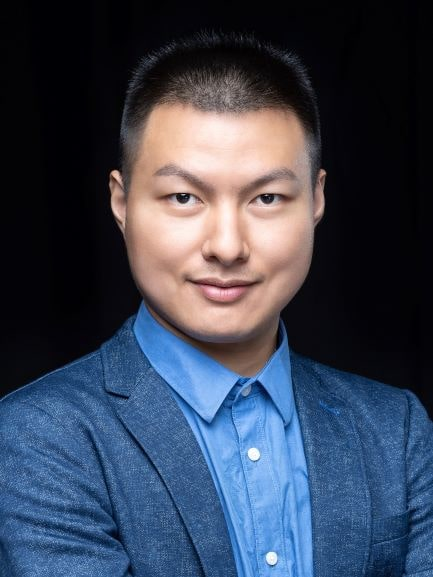
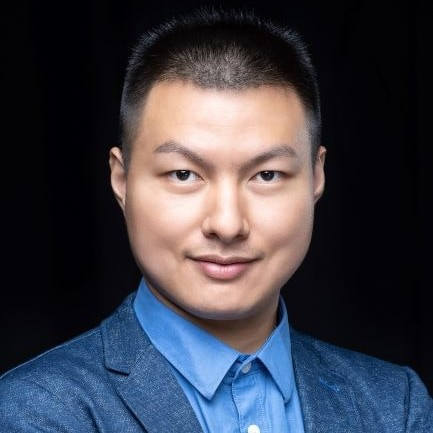
FIX: Fixed photo aspect ratio - updated organizer - updated call for papers page - updated program data file

diff --git a/_layouts/teams.html b/_layouts/teams.html
@@ -20,14 +20,18 @@ bodyClass: "page-teams"
 
 <div class="container pt-6 pb-6">
     <h1 class="title">Chairs</h1>
-    <div class="row">
+<!--    <div class="row">-->
+    <div class="row pt-6 pb-6">
         {% assign promoted_teams = site.organizers | where: "chair", true | sort: "weight" %}
         {% for team in promoted_teams %}
-        <div class="col-12 col-md-6 mb-2">
-            <div class="team team-summary team-summary-large">
+<!--        <div class="col-12 col-md-6 mb-2">-->
+        <div class="col-12 col-md-4 mb-3">
+            <div class="team team-summary">
+<!--            <div class="team team-summary team-summary-large">-->
                 {% if team.image %}
                 <div class="team-image">
-                    <img width="90" height="90" alt="{{ team.title }}" class="img-fluid mb-2" src="{{ team.image | relative_url }}" />
+                    <img width="60" height="60" alt="{{ team.title }}" class="img-fluid mb-2" src="{{ team.image | relative_url }}" />
+<!--                <img width="90" height="90" alt="{{ team.title }}" class="img-fluid mb-2" src="{{ team.image | relative_url }}" />-->
                 </div>
                 {% endif %}
                 <div class="team-meta">
@@ -62,14 +66,14 @@ bodyClass: "page-teams"
 <!--        {% endfor %}-->
 <!--    </div>-->
     <h1 class="title">Organising Team</h1>
-    <div class="row">
+    <div class="row pt-6 pb-6">
         {% assign promoted_teams = site.organizers | where: "chair", false | sort: "weight" %}
         {% for team in promoted_teams %}
-        <div class="col-12 col-md-6 mb-2">
-            <div class="team team-summary team-summary-large">
+        <div class="col-12 col-md-4 mb-3">
+            <div class="team team-summary">
                 {% if team.image %}
                 <div class="team-image">
-                    <img width="90" height="90" alt="{{ team.title }}" class="img-fluid mb-2" src="{{ team.image | relative_url }}" />
+                    <img width="60" height="60" alt="{{ team.title }}" class="img-fluid mb-2" src="{{ team.image | relative_url }}" />
                 </div>
                 {% endif %}
                 <div class="team-meta">

diff --git a/_layouts/page.html b/_layouts/page.html
@@ -3,15 +3,18 @@ layout: default
 bodyClass: "page-basic"
 ---
 
-<div class="container pb-1 pt-6 pt-md-10 pb-md-10">
+<div class="intro2">
+<div class="container pb-1 pt-2 pt-md-2 pb-md-2">
     <div class="service service-single">
         <h1 class="title">{{page.title}}</h1>
         <div class="content">{{content}}</div>
     </div>
 </div>
+</div>
 
-<div class="container pb-1 pt-1 pt-md-2 pb-md-6 strip strip-grey">
-    <div class="content mt-4">
+<div class="intro2">
+<div class="container pb-1 pt-1 pt-md-1 pb-md-1 strip strip-grey">
+    <div class="content mt-1">
       <table>
       <thead>
         <tr>
@@ -31,4 +34,5 @@ bodyClass: "page-basic"
       </tbody>
     </table>
     </div>
+</div>
 </div>

diff --git a/_layouts/home.html b/_layouts/home.html
@@ -78,7 +78,7 @@ bodyClass: "page-home"
 <!--</div>-->
 <!--{% endif %}-->
 
-<div class="container pb-3 pt-3 pt-md-6 pb-md-6 strip strip-grey">
+<div class="container pb-1 pt-1 pt-md-1 pb-md-1 strip strip-grey">
 <!--    <div class="row justify-content-start">-->
 <!--        <div class="col-12 col-md-8">-->
 <!--            <div class="service service-single">-->

diff --git a/_sass/components/_intro.scss b/_sass/components/_intro.scss
@@ -83,12 +83,12 @@
     @include media-breakpoint-up(md) {
       width: 100%;
     }
-ul ol{
-  font-size: 1.2rem;
-  font-weight: light;
-  line-height: 1.5;
-  color: $black;
-  }
+  ul ol li {
+    font-size: 1.2rem;
+    font-weight: light;
+    line-height: 1.5;
+    color: $black;
+    }
   //ul li {
   //  list-style-type: none;
   //}

diff --git a/call-for-papers.md b/call-for-papers.md
@@ -1,49 +1,77 @@
 ---
-title: Call for papers
-layout: services
-description: Call for papers
+title: Call for papers 
+layout: services 
+description: Call for papers 
 intro_image: "images/illustrations/reading.svg"
-intro_image_absolute: true
+intro_image_absolute: true 
 intro_image_hide_on_mobile: true
 ---
 
 # Call for papers
 
-Colorectal cancer is the third most common cause of cancer death worldwide, with almost two million new cases in 2020, worldwide. Early detection is of paramount importance on detecting cancer at an early stage, due to a 5-year survival rate close to 100% at stage I, and below 10%, at stage IV. Traditional colonoscopy remains the gold standard procedure because of its dual capability to optically inspect the colonic mucosa and to remove polyps, because they may eventually become cancer. In the last decades, new technologies have supported clinical decisions with AI and ML algorithm playing an important role in this process.
+Colorectal cancer is the third most common cause of cancer death worldwide, with almost two million new cases in 2020,
+worldwide. Early detection is of paramount importance on detecting cancer at an early stage, due to a 5-year survival
+rate close to 100% at stage I, and below 10%, at stage IV. Traditional colonoscopy remains the gold standard procedure
+because of its dual capability to optically inspect the colonic mucosa and to remove polyps, because they may eventually
+become cancer. In the last decades, new technologies have supported clinical decisions with AI and ML algorithm playing
+an important role in this process.
 
-This workshop focuses on novel scientific contributions on vision systems, imaging algorithms as well as autonomous system for endorobot for GI endoscopy. This includes lesion and lumen detection, as well as 3D reconstruction of the GI tract and hand-eye coordination. Applications include but are not limited to wireless capsule endoscopy, standard optical colonoscopy, as well as endorobots for endoscopy. Contributions should demonstrate potential clinical benefits describing current stage, development path and challenges to overcome before translation into clinical practice.
+This workshop focuses on novel scientific contributions on vision systems, imaging algorithms as well as autonomous
+system for endorobot for GI endoscopy. This includes lesion and lumen detection, as well as 3D reconstruction of the GI
+tract and hand-eye coordination. Applications include but are not limited to wireless capsule endoscopy, standard
+optical colonoscopy, as well as endorobots for endoscopy. Contributions should demonstrate potential clinical benefits
+describing current stage, development path and challenges to overcome before translation into clinical practice.
 
-Localising interesting features such as the lumen, lesions, or polyps to be removed requires their detection in the images of the video stream. Deep learning-based approaches to this task have become very successful in recent years, with annotated datasets publicly available to train them. Challenges remain, especially concerning the robustness to illumination because of the reflective surface. Potential solutions to these issues will be discussed in this workshop.
+Localising interesting features such as the lumen, lesions, or polyps to be removed requires their detection in the
+images of the video stream. Deep learning-based approaches to this task have become very successful in recent years,
+with annotated datasets publicly available to train them. Challenges remain, especially concerning the robustness to
+illumination because of the reflective surface. Potential solutions to these issues will be discussed in this workshop.
 
-Another important aspect in endoscopy is the level of autonomy of a medical device to support the clinical workforce in performing the procedure. This autonomous behaviour can benefit from 3D information such as the localisation of the target, lumen or lesion, and the position of an endorobot with respect to the wall of the gastrointestinal (GI) tract. Traditionally this information can be obtained from a monocular video system by using methods such as SLAM, shape-from-template, and non-rigid structure-from-motion. More recently, methods based on deep learning monocular depth estimation have also emerged. This workshop will discuss progresses made with those approaches and limitation remaining to successfully move an endorobot autonomously as well as achieving autonomous surgical tasks.
+Another important aspect in endoscopy is the level of autonomy of a medical device to support the clinical workforce in
+performing the procedure. This autonomous behaviour can benefit from 3D information such as the localisation of the
+target, lumen or lesion, and the position of an endorobot with respect to the wall of the gastrointestinal (GI) tract.
+Traditionally this information can be obtained from a monocular video system by using methods such as SLAM,
+shape-from-template, and non-rigid structure-from-motion. More recently, methods based on deep learning monocular depth
+estimation have also emerged. This workshop will discuss progresses made with those approaches and limitation remaining
+to successfully move an endorobot autonomously as well as achieving autonomous surgical tasks.
 
-The workshop will have six selected papers, 10 poster presentations, and two invited speakers covering both clinical and technical aspects. The clinical talk will be given by Professor Davide Lomanto. He is a professor in the Department of Surgery in the National University of Singapore (NUHS), the director of the Minimal Invasive Surgical Centre, and the director of the Advanced Surgery Training Centre at the NUHS. He will be presenting current solutions available in clinical practice, providing a deep view on the unmet clinical needs. This will cover the patient’s prospective, acceptance of new technology, such as AI and robotics as well as challenges on equality and diversity in endoscopy.
+The workshop will have six selected papers, 10 poster presentations, and two invited speakers covering both clinical and
+technical aspects. Topics include but are not limited to
 
-Topics include but are not limited to 
-
-<div class="intro2" markdown="1">
-* Image processing
-    - Lesion detection and classification
-    - Polyp segmentation and detection
-    - Haustral folds detection
-    - Real-time lumen detection
-
-* 3D vision for endoscopy
-    - 3D reconstruction of the colon
-    - CT (Virtual) colonoscopy
-    - 3D camera systems
-    - Navigation systems
-
-* Imaging technology
-    - Capsule endoscopy
-    - Imaging in surgical robots
-    - Imaging for soft robotics
-    - Imaging for self-assembling robots
-
-* Translational aspects
-    - Clinical trials and lessons learnt
-    - Validation of endoscopic systems
-    - Explainability and acceptability of technology by patients and clinicians
+<div class="intro2" style="color:#000000; font-size:1.2rem">
+<ul>
+    <li>Image processing
+        <ul>
+            <li>Lesion detection and classification</li>
+            <li>Polyp segmentation and detection</li>
+            <li>Haustral folds detection</li>
+            <li>Real-time lumen detection</li>
+        </ul>
+    </li>
+    <li>3D vision for endoscopy
+        <ul>
+            <li>3D reconstruction of the colon</li>
+            <li>CT (Virtual) colonoscopy</li>
+            <li>3D camera systems</li>
+            <li>Navigation systems</li>
+        </ul>
+    </li>
+    <li>Imaging technology
+        <ul>
+            <li>Capsule endoscopy</li>
+            <li>Imaging in surgical robots</li>
+            <li>Imaging for soft robotics</li>
+            <li>Imaging for self-assembling robots</li>
+        </ul>
+    </li>
+    <li>Translational aspects
+        <ul>
+            <li>Clinical trials and lessons learnt</li>
+            <li>Validation of endoscopic systems</li>
+            <li>Explainability and acceptability of technology by patients and clinicians</li>
+        </ul>
+    </li>
+</ul>
 </div>
 
 <div class="intro2">
@@ -59,11 +87,7 @@ Topics include but are not limited to
   </div>
 </div>
 
-Workshop proceedings are published as part of Springer Nature's Lecture Notes in 
-Computer Science (LNCS) series. Manuscripts will be reviewed in double-blinded 
-peer-review. Please prepare your workshop papers according to the [MICCAI submission 
-guidelines](https://conferences.miccai.org/2022/en/PAPER-SUBMISSION-AND-REBUTTAL-GUIDELINES.html#manuscriptpreparation) 
-(LNCS template, 8 pages maximum). Supplementary material: PDF documents or 
-mp4 videos, 10 MB maximum file size. At least two reviewers will be assigned to 
-review each submitted paper. Reviews will be double-blind, following the standard 
-procedure.
+Workshop proceedings are published as part of Springer Nature's Lecture Notes in Computer Science (LNCS) series.
+Manuscripts will be reviewed in double-blinded peer-review. Please prepare your workshop papers according to
+the [MICCAI submission guidelines](https://conferences.miccai.org/2022/en/PAPER-SUBMISSION-AND-REBUTTAL-GUIDELINES.html#manuscriptpreparation)
+(LNCS template, 8 pages maximum). Supplementary material: PDF documents or mp4 videos, 10 MB maximum file size.
